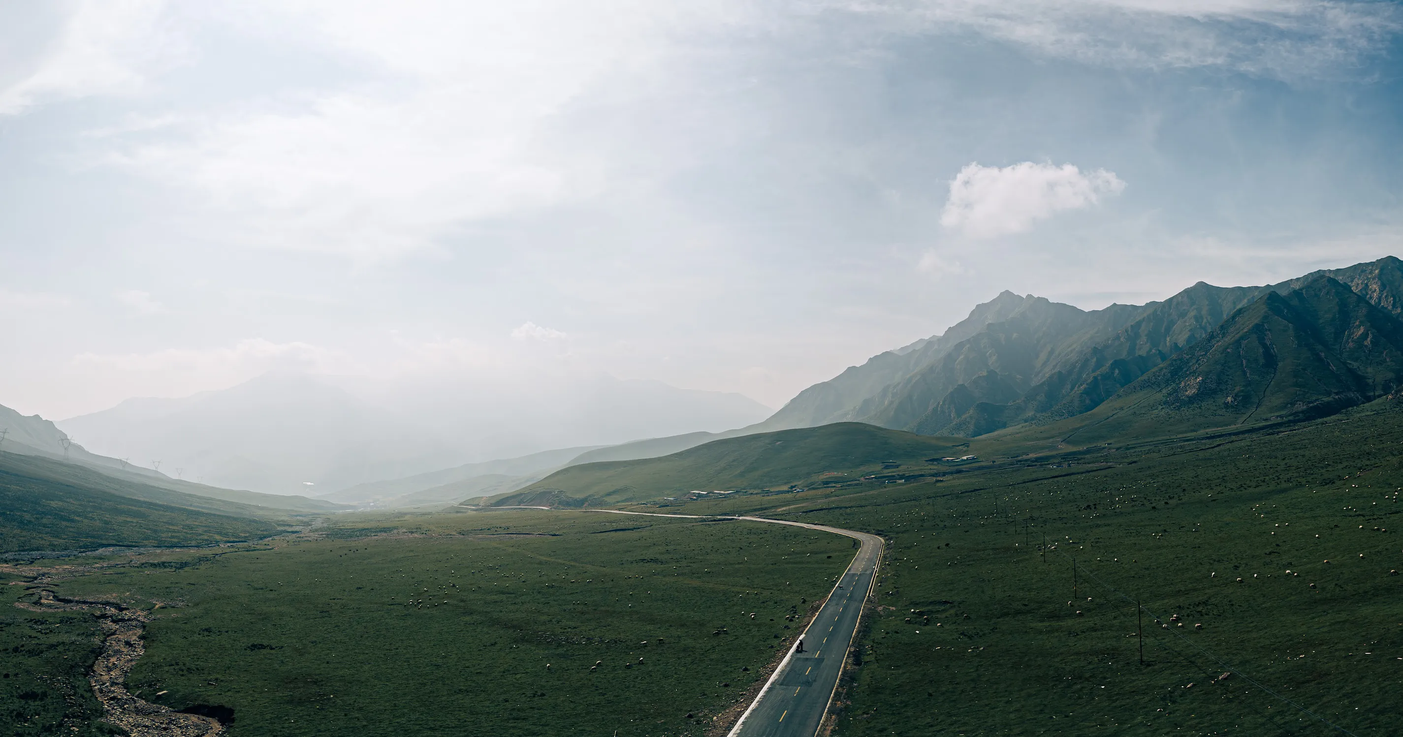
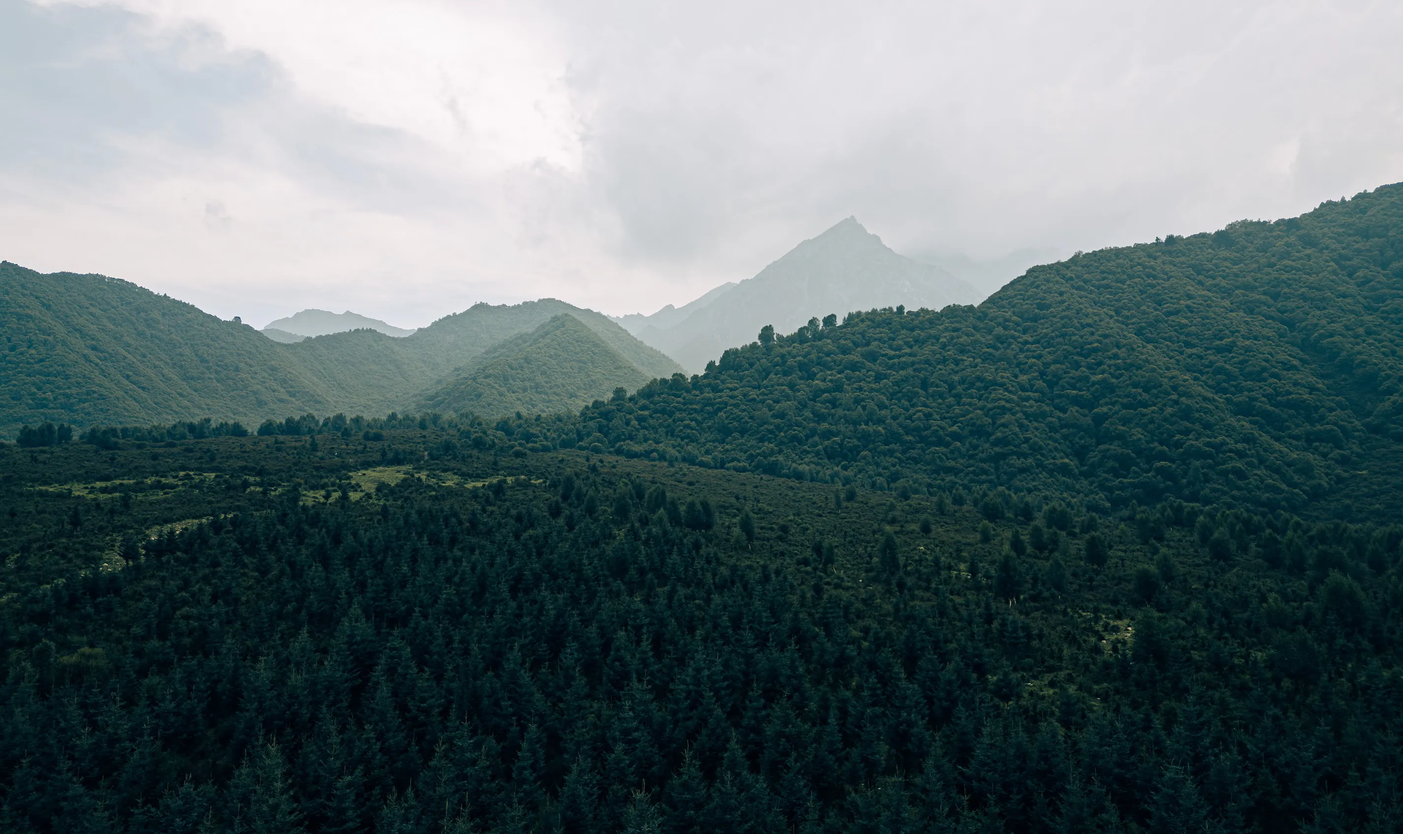
homepage

diff --git a/index.html b/index.html
@@ -32,8 +32,8 @@
     <link rel="preconnect" href="https://fonts.googleapis.com">
     <link rel="preconnect" href="https://fonts.gstatic.com" crossorigin>
     <link href="https://fonts.googleapis.com/css2?family=Cormorant+Garamond:wght@500;600;700&amp;family=Manrope:wght@400;500;600;700;800&amp;display=swap" rel="stylesheet">
-    <link rel="stylesheet" href="theme.css?v=2013">
-    <link rel="stylesheet" href="style.css?v=2025">
+    <link rel="stylesheet" href="theme.css?v=2014">
+    <link rel="stylesheet" href="style.css?v=2026">
     <link rel="stylesheet" href="cursor.css?v=2008" media="(hover: hover) and (pointer: fine) and (min-width: 769px)">
     <link rel="icon" type="image/png" href="images/favicon.png">
 </head>
@@ -106,7 +106,98 @@
 
         <hr class="soft-rule">
 
-        <section class="collections-section route-section" id="collections">
+        <section class="collections-section desktop-collections-section" id="collections">
+            <div class="section-head">
+                <div>
+                    <p class="section-kicker">Featured series</p>
+                    <h2 class="section-title">Explore The Collections.</h2>
+                </div>
+                <p class="section-copy">
+
+                </p>
+            </div>
+
+            <div class="collection-grid">
+                <article class="collection-card collection-card--wide">
+                    <a href="qinghai.html" class="collection-visual" aria-label="Open Qinghai collection">
+                        <img src="images/qinghai1.webp" alt="Grassland road in Qinghai" width="3840" height="2284" loading="lazy" decoding="async">
+                    </a>
+                    <div class="collection-copy">
+                        <div class="collection-meta">
+                            <span>07 / 2024</span>
+                            <span>Canon R5 / Dji Mini 3Pro</span>
+                        </div>
+                        <h3>Qinghai</h3>
+                        <p>A vast, soul-stirring realm where cobalt lakes meet golden peaks, echoing the timeless serenity of the Tibetan Plateau.</p>
+                        <a href="qinghai.html" class="cta-link">Browse</a>
+                    </div>
+                </article>
+
+                <article class="collection-card collection-card--narrow">
+                    <a href="japan.html" class="collection-visual collection-visual--portrait" aria-label="Open Japan collection">
+                        <img src="images/kyoto1.webp" alt="Senbon Torii in Kyoto" width="1833" height="2750" loading="lazy" decoding="async">
+                    </a>
+                    <div class="collection-copy">
+                        <div class="collection-meta">
+                            <span>07 / 2025</span>
+                            <span>Nikon Z9</span>
+                        </div>
+                        <h3>Japan</h3>
+                        <p>A timeless harmony of ancient tradition and futuristic elegance.</p>
+                        <a href="japan.html" class="cta-link">Browse</a>
+                    </div>
+                </article>
+
+                <article class="collection-card collection-card--narrow">
+                    <a href="chongqing.html" class="collection-visual" aria-label="Open Chongqing collection">
+                        <img src="images/cq5.webp" alt="Night city view in Chongqing" width="3200" height="1506" loading="lazy" decoding="async">
+                    </a>
+                    <div class="collection-copy">
+                        <div class="collection-meta">
+                            <span>08 / 2025</span>
+                            <span>Nikon Z9</span>
+                        </div>
+                        <h3>Chongqing</h3>
+                        <p>A vertical "Cyberpunk" masterpiece where neon-lit mountains and dual rivers weave together in a breathtaking display of urban energy.</p>
+                        <a href="chongqing.html" class="cta-link">Browse</a>
+                    </div>
+                </article>
+
+                <article class="collection-card collection-card--wide">
+                    <a href="yulong.html" class="collection-visual" aria-label="Open Lijiang collection">
+                        <img src="images/lijiang1.webp" alt="Blue water and mountains near Lijiang" width="2650" height="1555" loading="lazy" decoding="async">
+                    </a>
+                    <div class="collection-copy">
+                        <div class="collection-meta">
+                            <span>12 / 2025</span>
+                            <span>Nikon Z9</span>
+                        </div>
+                        <h3>Lijiang</h3>
+                        <p>A majestic, silver-clad guardian rising from the clouds, where eternal snows meet the emerald valleys of Yunnan in a display of divine serenity.</p>
+                        <a href="yulong.html" class="cta-link">Browse</a>
+                    </div>
+                </article>
+
+                <article class="collection-card collection-card--profile">
+                    <a href="about.html" class="collection-visual collection-visual--square" aria-label="Read about William">
+                        <img src="images/me.webp" alt="Portrait of William" width="1850" height="2638" loading="lazy" decoding="async">
+                    </a>
+                    <div class="collection-copy">
+                        <div class="collection-meta">
+                            <span>About the Artist</span>
+                            <span>Photography </span>
+                        </div>
+                        <h3>William</h3>
+                        <p>
+                            Read information about this website, my motivation, and my equipments. This Website is still under construction, any feedback is appreciated.
+                        </p>
+                        <a href="about.html" class="cta-link">Read</a>
+                    </div>
+                </article>
+            </div>
+        </section>
+
+        <section class="collections-section route-section mobile-route-section" id="collections-mobile">
             <div class="section-head">
                 <div>
                     <p class="section-kicker"></p>
@@ -217,20 +308,6 @@
                         </div>
                     </div>
                 </article>
-            </div>
-        </section>
-
-        <section class="home-about-card collection-card">
-            <a href="about.html" class="home-about-card__portrait" aria-label="Read about William">
-                <img src="images/me.webp" alt="Portrait of William" width="1850" height="2638" loading="lazy" decoding="async">
-            </a>
-            <div class="home-about-card__copy">
-                <p class="section-kicker">About the artist</p>
-                <h2 class="section-title">William</h2>
-                <p class="section-copy">
-                    Read information about this website, my motivation, and my equipments. This Website is still under construction, any feedback is appreciated.
-                </p>
-                <a href="about.html" class="cta-link">Read about William</a>
             </div>
         </section>
 

diff --git a/style.css b/style.css
@@ -76,6 +76,42 @@
     scroll-margin-top: 110px;
 }
 
+.collection-grid {
+    display: grid;
+    grid-template-columns: repeat(12, minmax(0, 1fr));
+    gap: 24px;
+}
+
+.desktop-collections-section .collection-card {
+    overflow: hidden;
+}
+
+.desktop-collections-section .collection-card.is-spotlit {
+    border-color: rgba(255, 255, 255, 0.32);
+    background: rgba(18, 27, 38, 0.84);
+    box-shadow:
+        0 0 0 1px rgba(255, 255, 255, 0.12),
+        0 0 34px rgba(255, 255, 255, 0.12),
+        var(--shadow-md);
+}
+
+.collection-card--wide {
+    grid-column: span 7;
+}
+
+.collection-card--narrow {
+    grid-column: span 5;
+}
+
+.collection-card--profile {
+    grid-column: 1 / -1;
+    grid-template-columns: minmax(240px, 320px) minmax(0, 1fr);
+}
+
+.desktop-collections-section .collection-meta {
+    justify-content: space-between;
+}
+
 .route-map {
     position: relative;
     display: grid;
@@ -229,28 +265,60 @@
 
 @media (min-width: 721px) {
     .route-stop--japan .route-stop__visual {
-        aspect-ratio: 1833 / 2750;
+        aspect-ratio: 1833 / 2440;
         min-height: 0;
     }
 
     .route-stop--japan .route-stop__visual img {
         height: 100%;
-        object-fit: contain;
+        object-fit: cover;
+        object-position: center 18%;
     }
 }
 
 @media (min-width: 961px) {
     .route-stop--qinghai .route-stop__content {
         height: 100%;
-        grid-template-rows: minmax(430px, 1fr) auto;
+        grid-template-rows: minmax(372px, 0.86fr) auto;
     }
 
     .route-stop--qinghai .route-stop__visual {
-        min-height: 430px;
+        min-height: 372px;
     }
 
     .route-stop--qinghai .route-stop__copy {
-        padding: clamp(28px, 3vw, 38px);
+        grid-template-rows: auto auto auto auto minmax(56px, 1fr);
+        gap: 22px;
+        padding: clamp(32px, 3.4vw, 46px);
+    }
+
+    .route-stop--qinghai .collection-copy h3 {
+        margin-bottom: 0.2rem;
+    }
+
+    .route-stop--qinghai .collection-copy p {
+        line-height: 1.72;
+    }
+
+    .route-stop--qinghai .route-tags {
+        gap: 10px;
+    }
+
+    .route-stop--qinghai .cta-link {
+        align-self: stretch;
+        min-height: 0;
+        height: 100%;
+        margin-top: 0;
+        padding: 0 20px;
+        align-items: center;
+        justify-content: center;
+    }
+}
+
+@media (min-width: 721px) {
+    .mobile-route-section,
+    .home-about-card {
+        display: none;
     }
 }
 
@@ -427,6 +495,10 @@
 }
 
 @media (max-width: 720px) {
+    .desktop-collections-section {
+        display: none;
+    }
+
     .home-hero {
         min-height: auto;
         gap: 28px;

diff --git a/theme.css b/theme.css
@@ -17,7 +17,7 @@
     --radius-lg: 24px;
     --radius-md: 18px;
     --radius-sm: 12px;
-    --max-width: 1200px;
+    --max-width: 1180px;
     --page-padding: clamp(20px, 3vw, 36px);
     --mobile-page-gutter: 18px;
 }
